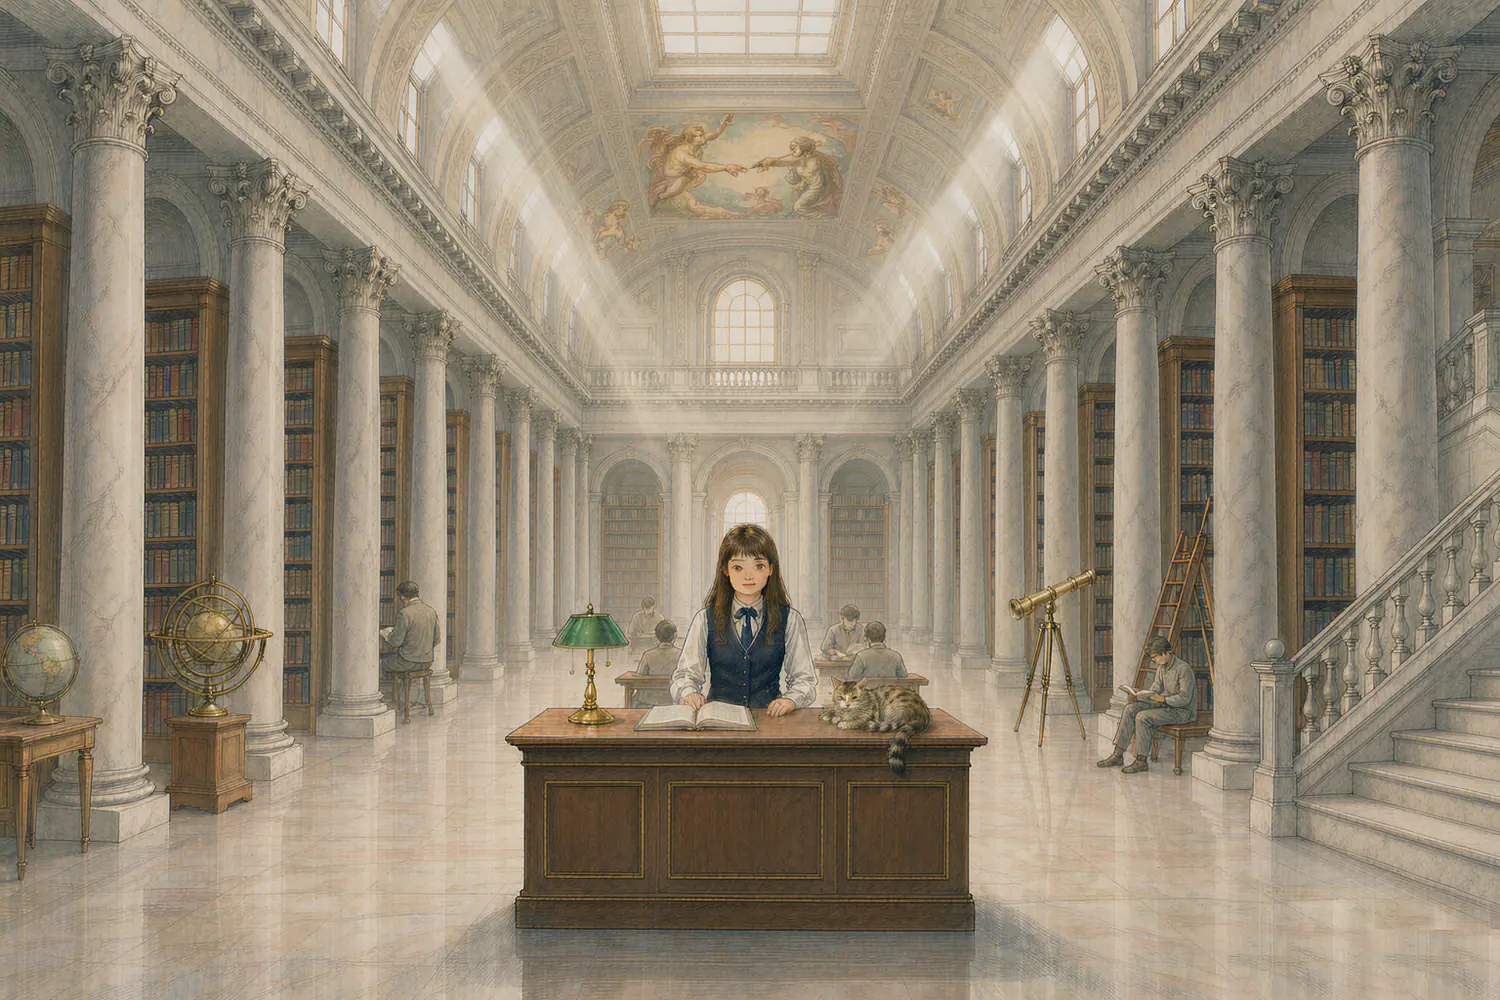
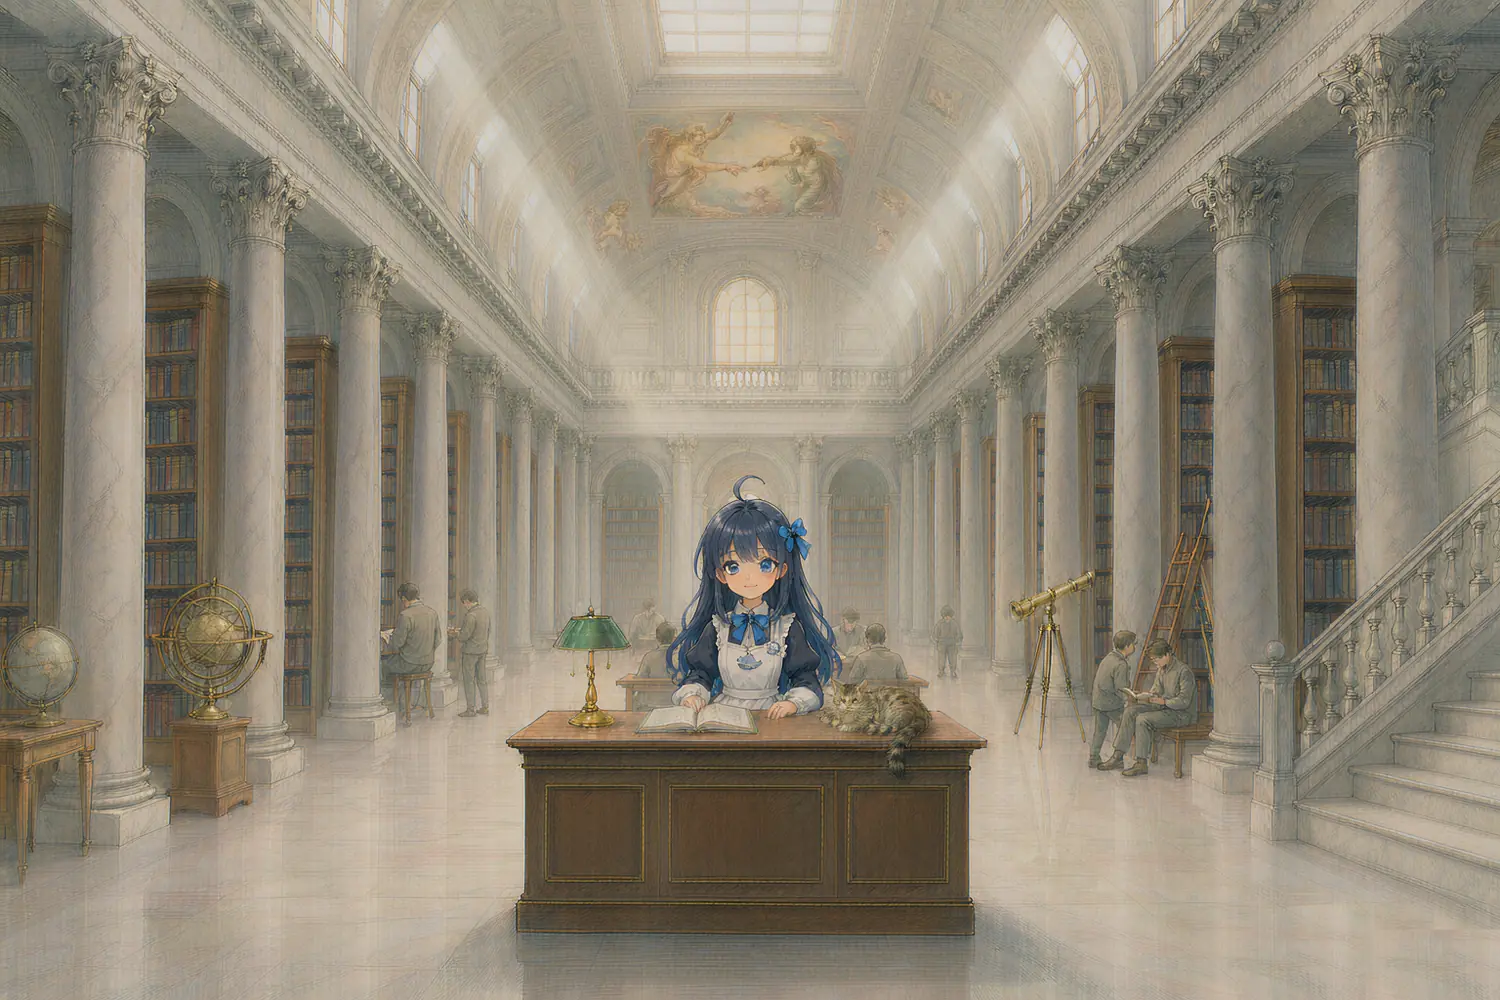
馆藏原件十版：接待员改为蓝发看板娘风、背景读者推远保纵深、姿态更多样

diff --git a/index.html b/index.html
@@ -1853,20 +1853,20 @@ img{display:block}
      ⚠ 她画在图里、挂在舞台的**竖直中线附近**（头顶离中线只差 1.5% 舞台高），
         所以缩放对她的挂点几乎无影响（0.485 → 0.483，约 3px）。 */
   --ar-zoom:1.15;
-  /* 她头顶的高度（量自内厅图：八版 0.527 × 全高 → 离舞台底边 0.473）。
-     ⚠ 换内厅图**必须重量**。⚠⚠ **别用"第一条暗行"，也别用"最陡下降行"** —— 六版起穹顶有了湿壁画、
-        凹格与拱券轮廓，中央那条竖直带在 y≈0.40–0.43 就有暗线，两种自动判据都会把它当成"头发顶"
-        （实测误判 0.396 / 0.424，真值 0.527），气泡会被顶到天花板上去。
-     ✅ 正解：**把带子收窄到只压住她头发**（本例 x 0.475–0.525），剖面会是一条干净的大台阶
-        （198 → 170 → 142 → 110），再**把候选线画出来目视确认**。 */
-  --ar-head:calc(var(--ar-stage-h) * .473 - var(--ar-crop))}
+  /* 她头顶的高度（量自内厅图：十版 0.502 × 全高 → 离舞台底边 0.498）。
+     ⚠ 换内厅图**必须重量**。⚠⚠ 别用"第一条暗行／最陡下降行"这种全宽带判据 —— 穹顶的
+        湿壁画、凹格与拱券轮廓都会在带子里制造假台阶（已连骗三次：0.396 / 0.424）。
+     ✅ 唯一可靠：**把竖直带收窄到只压住她头发**（x 0.475–0.525），剖面会出现一条干净的大台阶
+        （十版：167 → 139 → 105 → 85），落差就是发顶；再画线目视确认。
+        （她现在是蓝发呆毛造型，呆毛细、窄带量不出来 —— 气泡与呆毛之间留的 2vh 够用。） */
+  --ar-head:calc(var(--ar-stage-h) * .498 - var(--ar-crop))}
 
 /* ── ① 内厅（门背后那一层）─────────────────────────────────────────────── */
 .arc-scene{position:absolute;inset:0;z-index:0;transform:scale(var(--ar-zoom,1));
   transition:transform 2.6s cubic-bezier(.3,.02,.26,1)}
 .arcwall.push .arc-scene{transform:scale(calc(var(--ar-zoom,1) * 1.06))}
 .arc-hall{position:absolute;inset:0;
-  background:url("assets/archive-hall.webp?v=20260922g") center/100% 100% no-repeat}
+  background:url("assets/archive-hall.webp?v=20260922h") center/100% 100% no-repeat}
 .arc-hallv{position:absolute;inset:0;
   background:radial-gradient(ellipse 60% 44% at 50% 44%,rgba(255,252,244,.26),rgba(255,250,240,0) 72%),
     linear-gradient(180deg,rgba(58,42,24,.20),rgba(58,42,24,0) 24%,
@@ -4581,6 +4581,6 @@ footer .ft-legal b{color:var(--muted);font-weight:500}
 <script src="study-plan.js?v=20260922c"></script>
 <script src="docs.js?v=20260921c"></script>
 <script src="app.js?v=20260920f"></script>
-<script src="knowledge.js?v=20260922t"></script>
+<script src="knowledge.js?v=20260922u"></script>
 </body>
 </html>

diff --git a/knowledge.js b/knowledge.js
@@ -2287,7 +2287,7 @@ function warmGateImages() {
        门是进门第一眼（必须已经在缓存里），内厅在 760ms 后就要露出来；
        接待员（65 KB）要 2.4s 之后才淡入，留给她自己慢慢下。 */
     "assets/archive-door.webp?v=20260922a",
-    "assets/archive-hall.webp?v=20260922g"
+    "assets/archive-hall.webp?v=20260922h"
   ];
   list.forEach(function (u) {
     var im = new Image();
